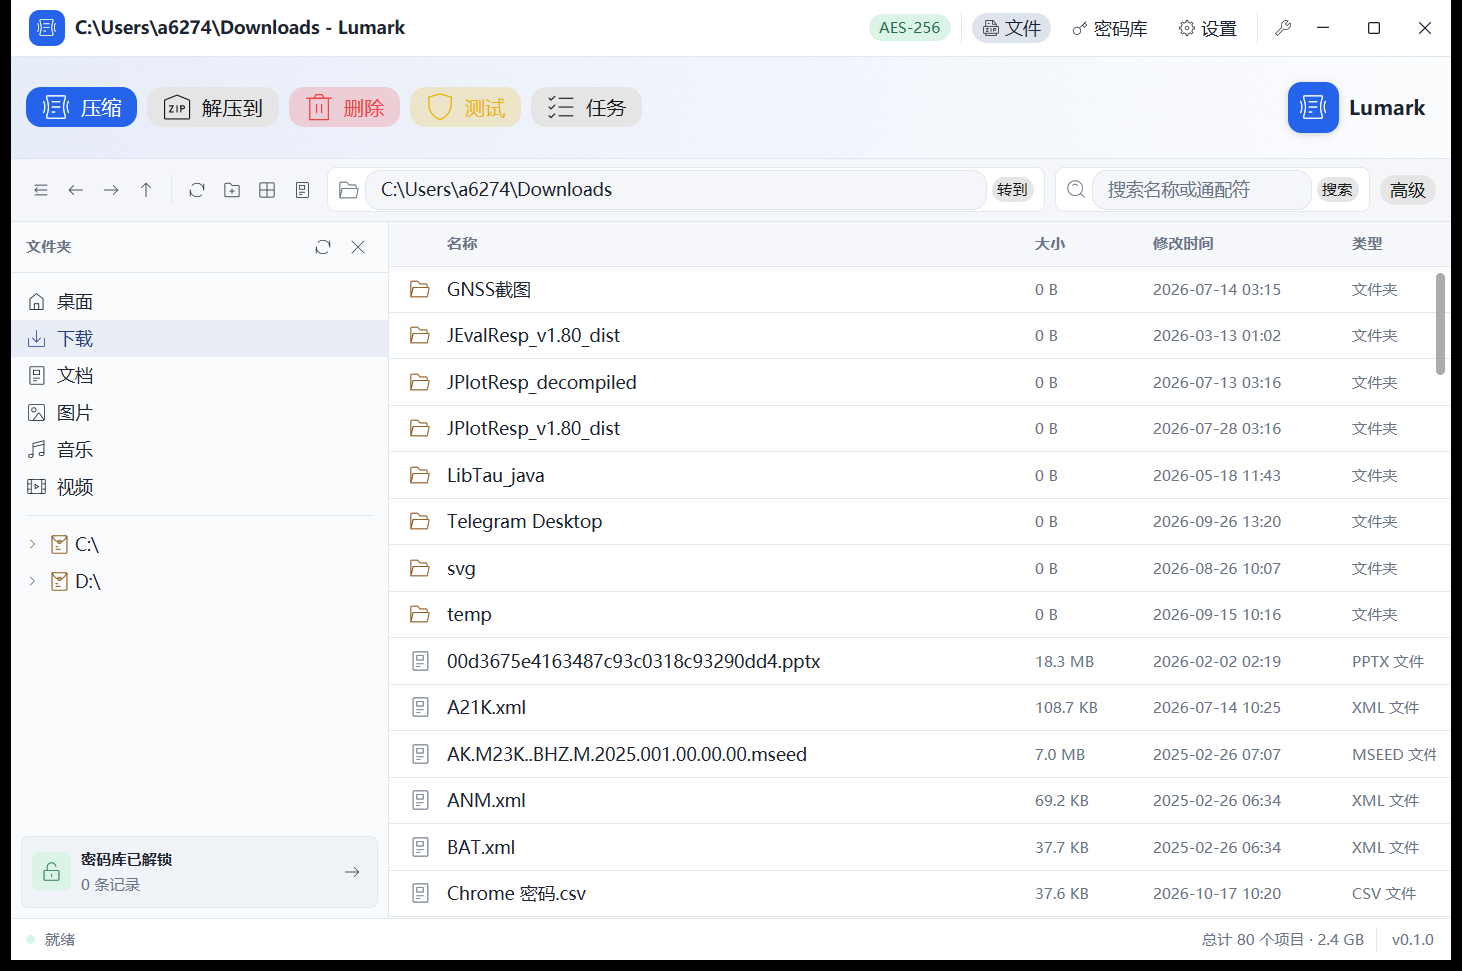
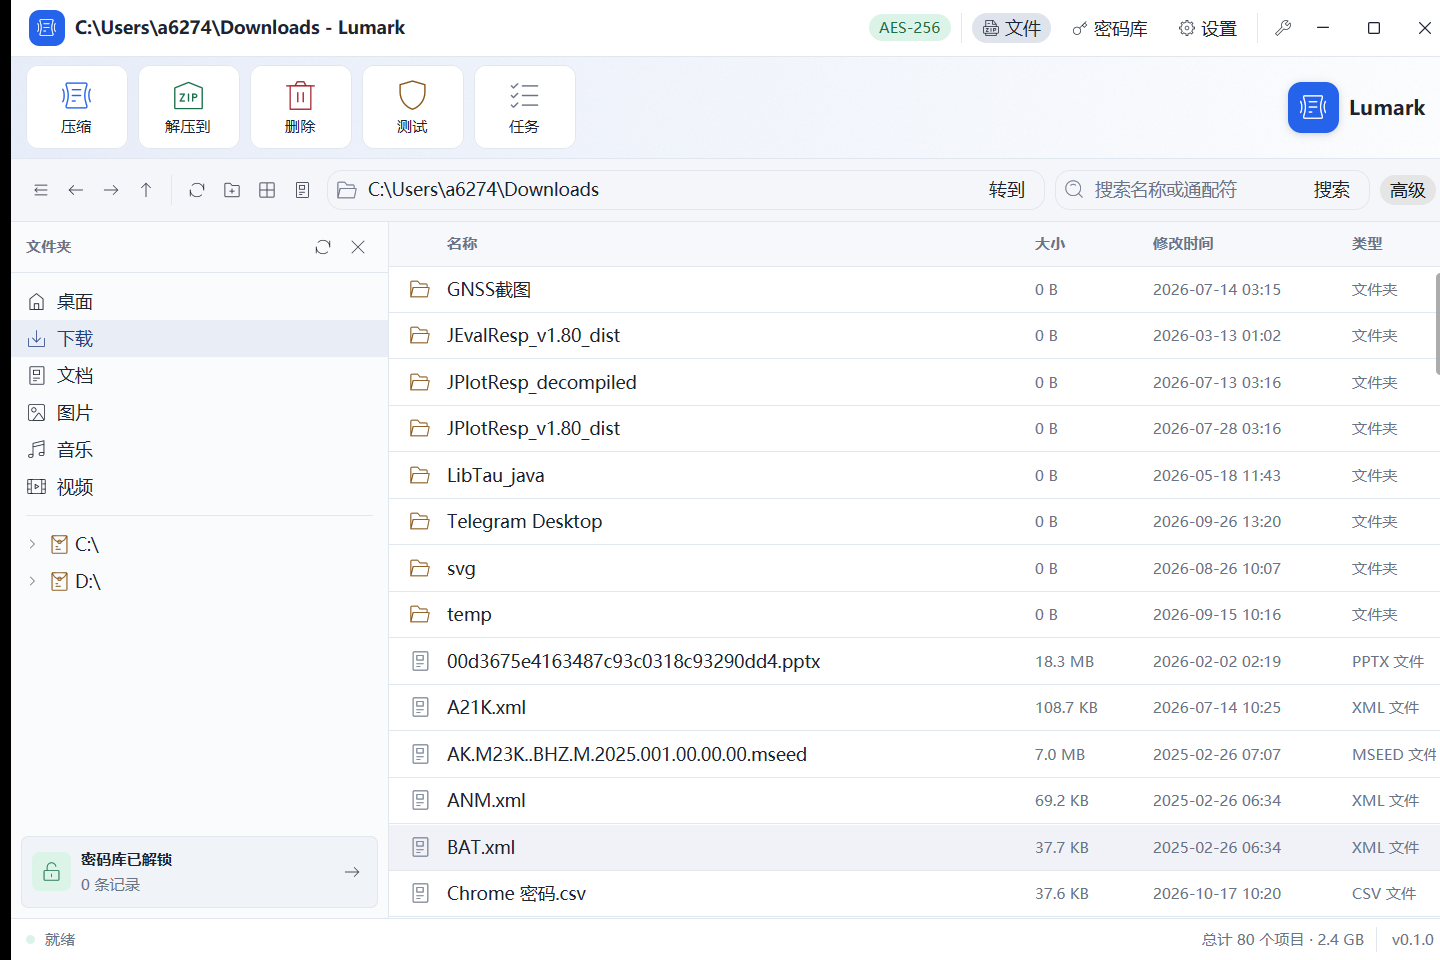
feat: 动作带纵向布局与官方输入组

diff --git a/crates/lumark-ui/src/app/view/chrome.rs b/crates/lumark-ui/src/app/view/chrome.rs
@@ -2,6 +2,9 @@ use super::super::*;
 use super::components::{
     AppIcon, BannerTone, banner_action, banner_gradient, brand_lockup, icon_button, location_icon,
 };
+use gpui_kit::component::input::{
+    InputGroup, InputGroupAddon, InputGroupAddonAlignment, InputGroupButton, InputGroupInput,
+};
 
 impl LumarkApp {
     /// 渲染自绘标题栏：当前位置、工作区切换和全局工具入口。
@@ -155,7 +158,7 @@ impl LumarkApp {
                         "extract",
                         AppIcon::Zip,
                         "解压到",
-                        BannerTone::Accent,
+                        BannerTone::Success,
                         |this, window, cx| this.open_extract_dialog(window, cx),
                     ))
                     .child(banner_action(
@@ -179,7 +182,7 @@ impl LumarkApp {
                         "task-center",
                         AppIcon::List,
                         "任务",
-                        BannerTone::Accent,
+                        BannerTone::Neutral,
                         |this, _, _| this.show_task_center = !this.show_task_center,
                     )),
             )
@@ -425,69 +428,63 @@ impl LumarkApp {
                     ),
             )
             .child(
-                h_flex()
+                InputGroup::new("location-group")
                     .flex_1()
                     .min_w(px(150.))
-                    .h(px(30.))
-                    .px_2()
-                    .gap_1()
-                    .rounded(px(6.))
-                    .bg(cx.theme().popover)
-                    .border_1()
-                    .border_color(cx.theme().input)
-                    .child(
-                        div()
-                            .text_color(cx.theme().muted_foreground)
-                            .child(AppIcon::FolderOpen.element(15.)),
-                    )
-                    .child(
-                        Input::new(&self.location_input)
+                    .input(
+                        InputGroupInput::new(&self.location_input)
                             .id("location-input")
-                            .flex_1()
-                            .min_w_0(),
+                            .aria_label("当前路径"),
                     )
-                    .child(
-                        Button::new("go-location")
-                            .secondary()
-                            .xsmall()
-                            .label("转到")
-                            .on_click(cx.listener(|this, _, window, cx| {
-                                this.go_location(window, cx);
-                                cx.notify();
-                            })),
+                    .addon(
+                        InputGroupAddon::new("location-icon").child(
+                            div()
+                                .text_color(cx.theme().muted_foreground)
+                                .child(AppIcon::FolderOpen.element(15.)),
+                        ),
+                    )
+                    .addon(
+                        InputGroupAddon::new("location-go")
+                            .align(InputGroupAddonAlignment::InlineEnd)
+                            .child(
+                                InputGroupButton::new("go-location")
+                                    .label("转到")
+                                    .tooltip("打开输入的路径")
+                                    .on_click(cx.listener(|this, _, window, cx| {
+                                        this.go_location(window, cx);
+                                        cx.notify();
+                                    })),
+                            ),
                     ),
             )
             .child(
-                h_flex()
+                InputGroup::new("search-group")
                     .w(px(if narrow { 210. } else { 286. }))
-                    .h(px(30.))
-                    .px_2()
-                    .gap_1()
                     .flex_shrink_0()
-                    .rounded(px(6.))
-                    .bg(cx.theme().popover)
-                    .border_1()
-                    .border_color(cx.theme().input)
-                    .child(
-                        div()
-                            .text_color(cx.theme().muted_foreground)
-                            .child(AppIcon::Search.element(14.)),
-                    )
-                    .child(
-                        Input::new(&self.search_input)
+                    .input(
+                        InputGroupInput::new(&self.search_input)
                             .id("search-input")
-                            .flex_1()
-                            .min_w_0(),
+                            .aria_label("搜索名称或通配符"),
                     )
-                    .child(
-                        Button::new("search-run")
-                            .secondary()
-                            .xsmall()
-                            .label("搜索")
-                            .on_click(cx.listener(|this, _, _, cx| {
-                                this.run_search(cx);
-                                cx.notify();
-                            })),
+                    .addon(
+                        InputGroupAddon::new("search-icon").child(
+                            div()
+                                .text_color(cx.theme().muted_foreground)
+                                .child(AppIcon::Search.element(14.)),
+                        ),
+                    )
+                    .addon(
+                        InputGroupAddon::new("search-run-addon")
+                            .align(InputGroupAddonAlignment::InlineEnd)
+                            .child(
+                                InputGroupButton::new("search-run")
+                                    .label("搜索")
+                                    .tooltip("在当前目录搜索")
+                                    .on_click(cx.listener(|this, _, _, cx| {
+                                        this.run_search(cx);
+                                        cx.notify();
+                                    })),
+                            ),
                     ),
             )
             .child(

diff --git a/crates/lumark-ui/src/app/view/components.rs b/crates/lumark-ui/src/app/view/components.rs
@@ -132,20 +132,34 @@ pub(super) fn card(cx: &Context<LumarkApp>) -> gpui_kit::Div {
 
 /// 顶部动作带按钮的语义色调。
 ///
-/// 使用组件库的 primary、secondary、warning 和 danger 变体表达主操作、
-/// 辅助操作和破坏性操作，不再自绘图标底板。
+/// 所有动作统一使用官方默认 Button 表面，只让图标按动作类别着色，
+/// 避免五种彩色填充在横幅上互相争夺注意力。
 #[derive(Clone, Copy, Debug)]
 pub(super) enum BannerTone {
     Primary,
-    Accent,
+    Success,
     Warning,
     Danger,
+    Neutral,
 }
 
-/// 渲染顶部动作带中的官方 Button。
+impl BannerTone {
+    /// 返回动作图标在当前主题下的颜色。
+    fn icon_color(self, cx: &gpui_kit::App) -> gpui_kit::Hsla {
+        match self {
+            Self::Primary => cx.theme().primary,
+            Self::Success => cx.theme().success_foreground,
+            Self::Warning => cx.theme().warning_foreground,
+            Self::Danger => cx.theme().danger_foreground,
+            Self::Neutral => cx.theme().muted_foreground,
+        }
+    }
+}
+
+/// 渲染顶部动作带中的纵向官方 Button。
 ///
-/// 大尺寸按钮自带图标与标签间距、悬停和焦点样式，图标和文字颜色
-/// 由 Button 的语义变体统一决定。
+/// 图标和文字由同一个 v_flex 提供，Button 仍负责圆角、边框、悬停、
+/// 焦点环和键盘激活；固定尺寸让五个动作在宽窄窗口下保持同一基线。
 pub(super) fn banner_action(
     cx: &Context<LumarkApp>,
     id: &'static str,
@@ -154,16 +168,23 @@ pub(super) fn banner_action(
     tone: BannerTone,
     handler: impl Fn(&mut LumarkApp, &mut Window, &mut Context<LumarkApp>) + 'static,
 ) -> gpui_kit::AnyElement {
-    let button = match tone {
-        BannerTone::Primary => Button::new(id).primary(),
-        BannerTone::Accent => Button::new(id).secondary(),
-        BannerTone::Warning => Button::new(id).warning(),
-        BannerTone::Danger => Button::new(id).danger(),
-    };
-    button
-        .large()
-        .icon(icon.element(18.))
-        .label(label)
+    let icon_color = tone.icon_color(cx);
+    let label_color = cx.theme().foreground;
+    Button::new(id)
+        .rounded(px(8.))
+        .w(px(68.))
+        .h(px(56.))
+        .px_0()
+        .tooltip(label)
+        .accessibility_label(label)
+        .child(
+            v_flex()
+                .items_center()
+                .justify_center()
+                .gap_1()
+                .child(div().text_color(icon_color).child(icon.element(22.)))
+                .child(div().text_xs().text_color(label_color).child(label)),
+        )
         .on_click(cx.listener(move |this, _, window, cx| {
             handler(this, window, cx);
             cx.notify();

diff --git a/IMPLEMENTATION_STATUS.md b/IMPLEMENTATION_STATUS.md
@@ -29,7 +29,7 @@
 - [x] 独立压缩窗口支持轻巧/经典双模式并共享状态：轻巧模式为 600×390 紧凑表单，经典模式为 780×650 六选项卡；格式、压缩方法、字典、单词、固实块、线程和时间筛选统一使用官方 Select，注释使用官方多行 Textarea，经典模式使用官方 Tabs、GroupBox、Radio 和 Checkbox。压缩包输出目录和解压目标目录均可通过系统目录选择器更换。
 - [x] 独立任务进度窗口：压缩、解压和测试启动后自动打开，显示目标路径、当前文件进度、总进度、已用/剩余时间、总大小、已压缩、压缩后、压缩率、文件数、速度和暂停、继续、取消、后台；取消需要二次确认，确认后立即停止并清理临时文件，关闭窗口不取消任务，完成后自动关闭，状态栏提供“进度”入口。
 - [x] 压缩后端使用 zlib-ng，ZIP 按 1 MiB 分块读写并按块响应取消；7Z 通过进度读取器报告当前文件进度；7Z 算法支持 LZMA2/LZMA/PPMd/BZip2 及字典、单词、固实块和线程参数，ZIP 算法支持 Deflate/BZip2/LZMA。
-- [x] 界面组件迁移到 gpui-kit 官方实现：动作带和标题栏导航使用官方 Button 变体，格式与算法/时间下拉使用官方 Select，文件右键菜单使用 ContextMenu/PopupMenu，文件表使用官方 Scrollbar，经典窗口使用官方 Tabs、GroupBox、Radio 和 Checkbox。
+- [x] 界面组件迁移到 gpui-kit 官方实现：动作带使用图标在上、文字在下的官方 Button，路径与搜索栏使用官方 InputGroup，标题栏导航使用官方 Button，格式与算法/时间下拉使用官方 Select，文件右键菜单使用 ContextMenu/PopupMenu，文件表使用官方 Scrollbar，经典窗口使用官方 Tabs、GroupBox、Radio 和 Checkbox。
 - [x] 自定义主题色：设置页使用官方 ColorPicker，默认蓝色；可选预设色或任意十六进制/HSLA 颜色，主按钮、动作带、选中态、进度条和状态栏同步换色并持久化。
 - [x] 修复标题栏拖拽区域吞掉右上角密码库/设置按钮点击的问题；模态遮罩增加 occlude 命中阻塞，压缩/解压设置对话框不再把鼠标事件穿透到下层文件表。
 - [x] 现代浅色/深色主题、双栏密码库、分组设置页和统一模态层保留，并适配新的标题栏、页头横幅和无侧栏工作区。
